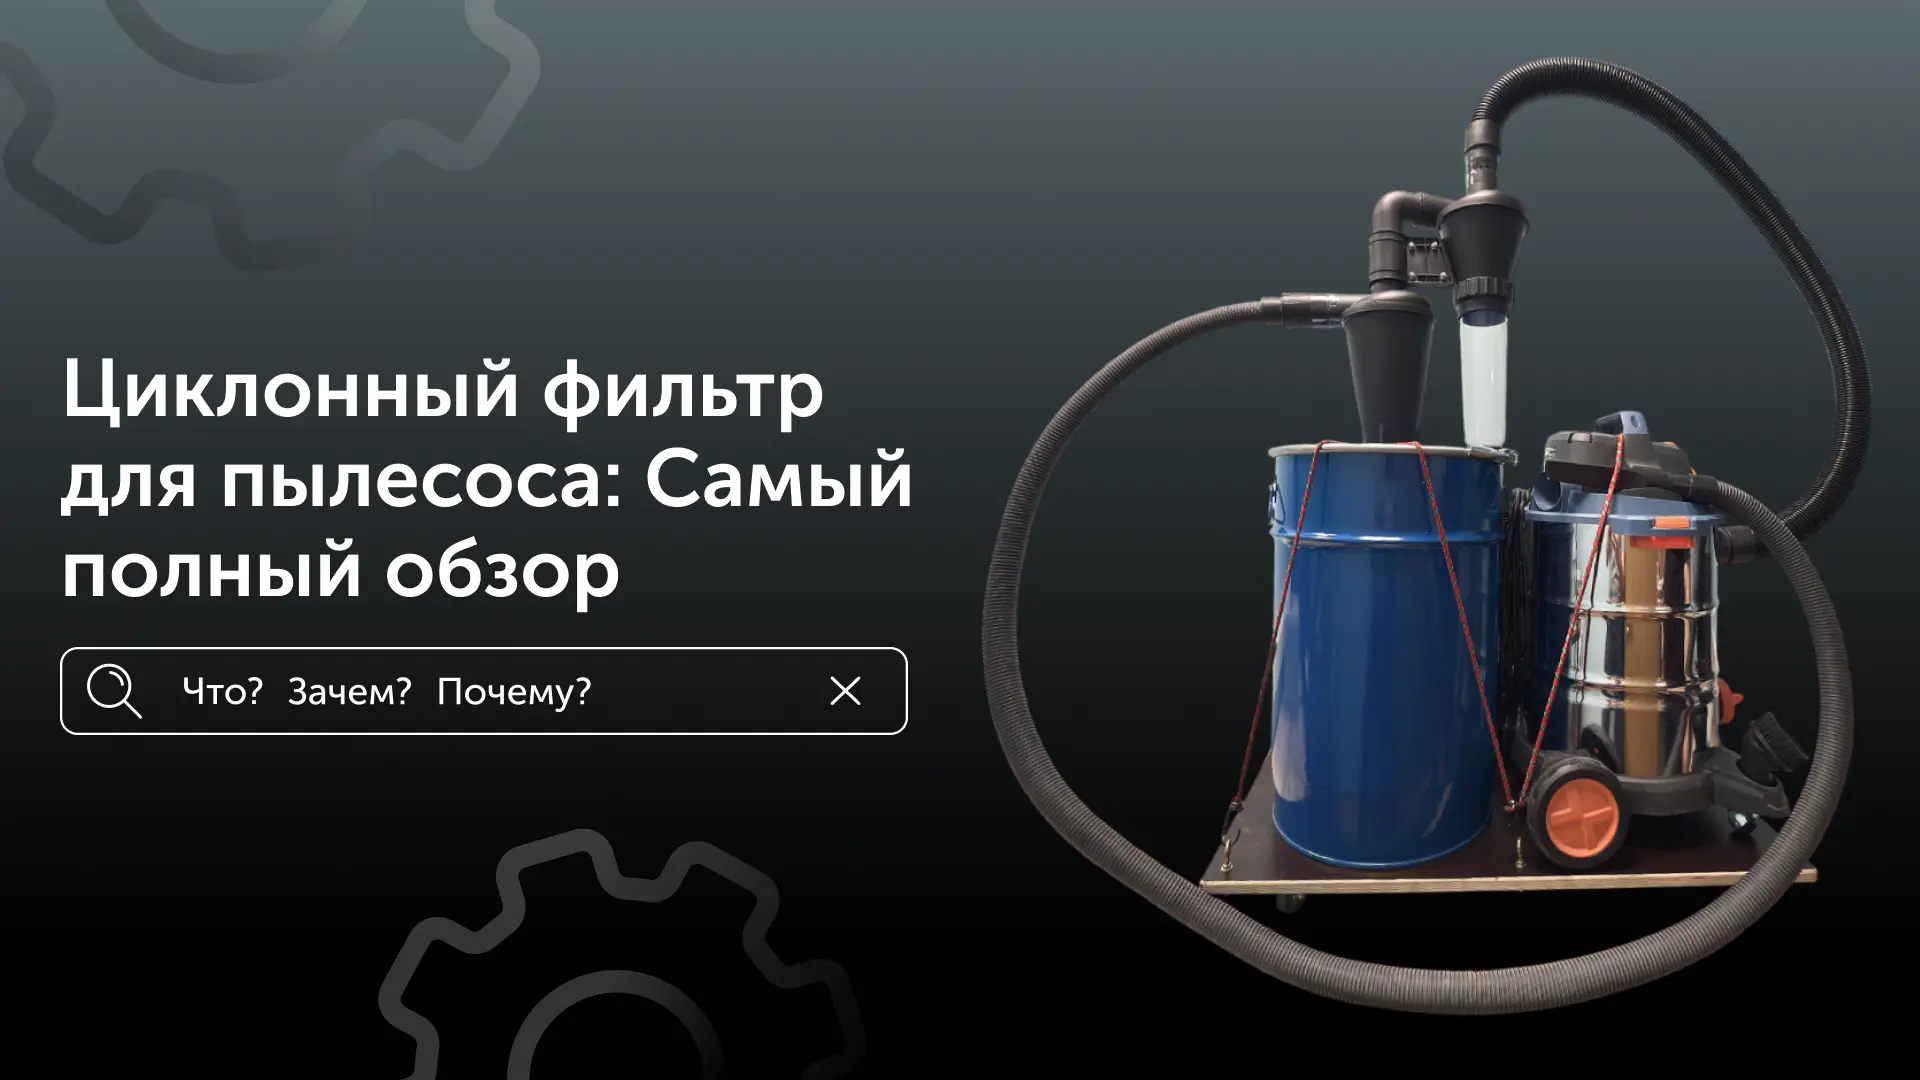
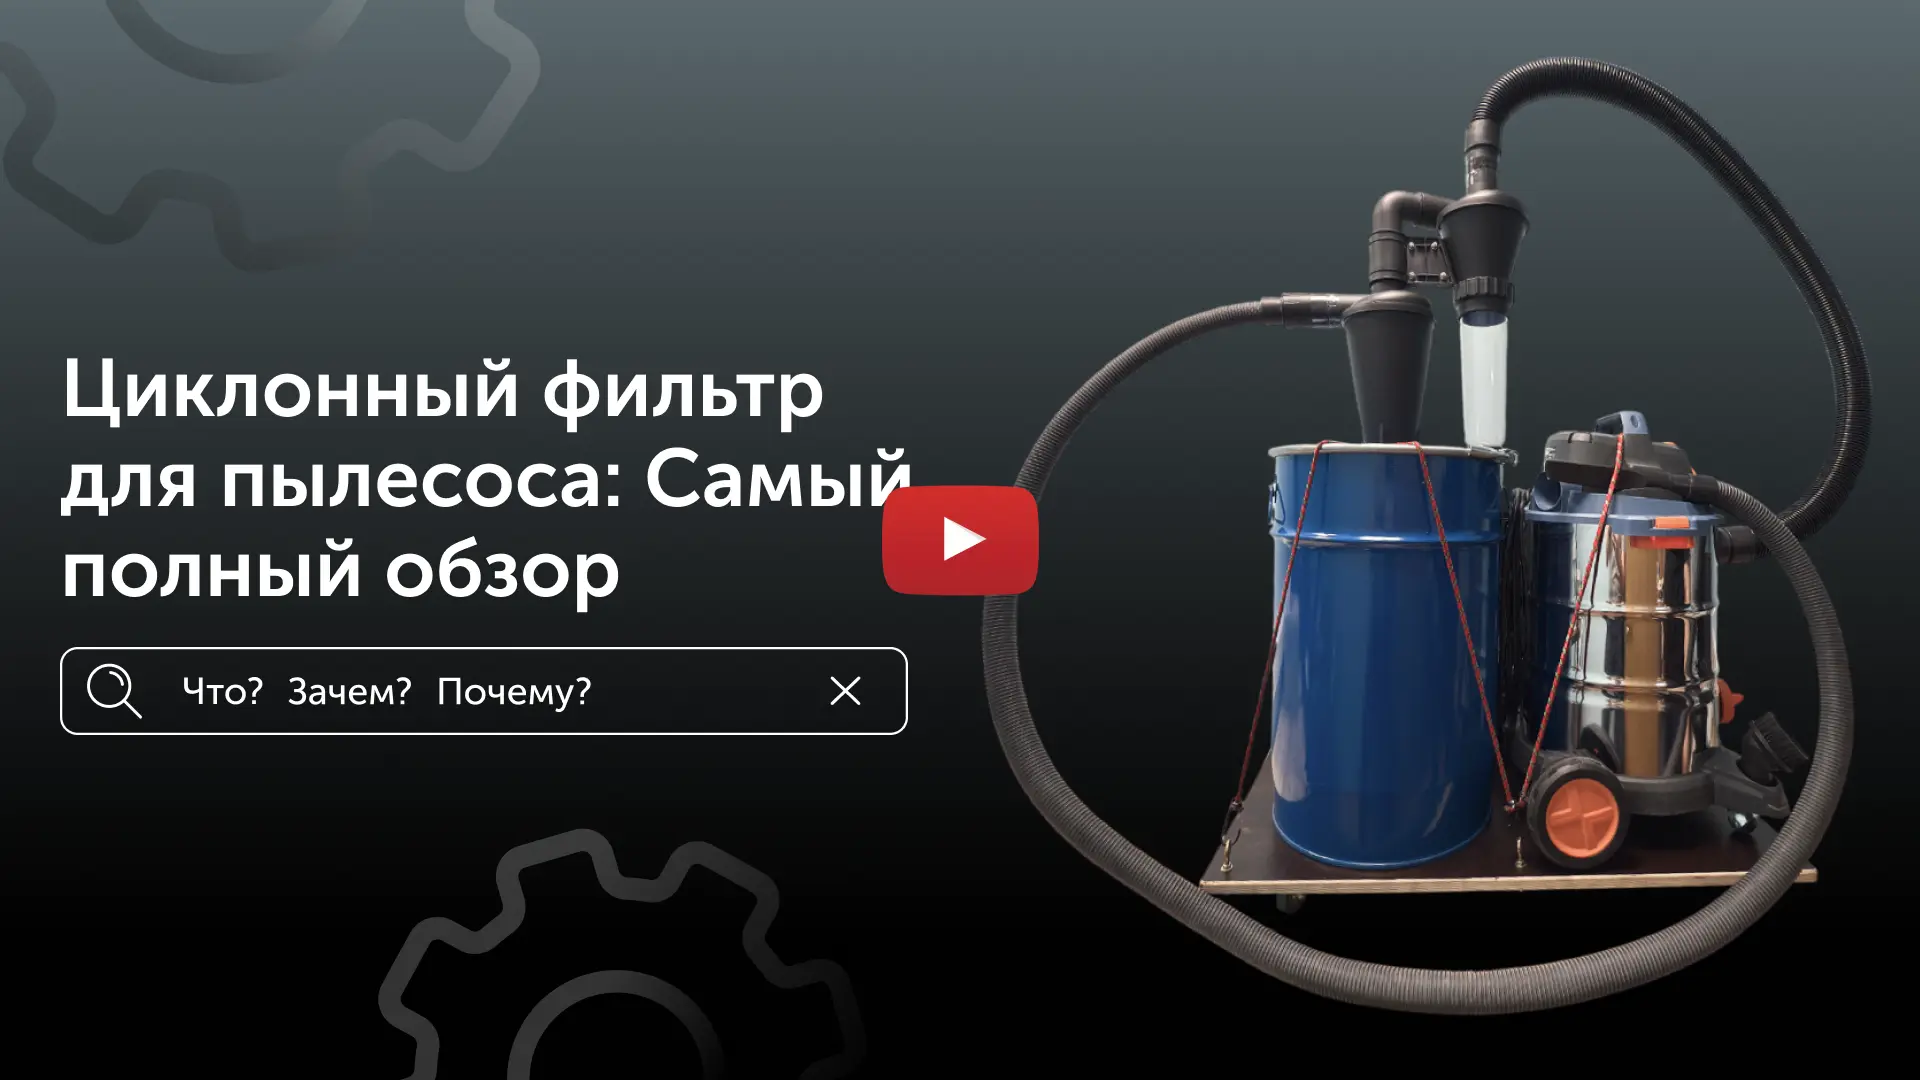
fix for vid

Changed region(s): [[0.4375, 0.4278, 0.5625, 0.55]]

diff --git a/src/components/VideoSection.vue b/src/components/VideoSection.vue
@@ -7,20 +7,17 @@ const showVideo = ref(false)
 <template>
   <section class="video-section" id="overviews">
     <div class="video-elem">
-      <img
-        v-if="!showVideo"
-        @click="showVideo = true"
-        class="video-preview"
-        src="/youtube-preview.webp"
-        alt="Превью ютуб видео"
-      />
+      <div class="preview-wrapper" v-if="!showVideo" @click.prevent.stop="showVideo = true">
+        <img class="video-preview" src="/youtube-preview.webp" alt="Превью ютуб видео" />
+      </div>
       <iframe
         v-else
         class="video-frame"
-        src="https://www.youtube.com/embed/ClvIqt0Vq5Y"
-        allow="accelerometer; encrypted-media; gyroscope; picture-in-picture"
+        :src="'https://www.youtube.com/embed/ClvIqt0Vq5Y?autoplay=1&rel=0'"
+        allow="accelerometer; encrypted-media; autoplay; gyroscope; picture-in-picture"
         frameborder="0"
         allowfullscreen
+        tabindex="-1"
       ></iframe>
     </div>
   </section>
@@ -37,6 +34,7 @@ const showVideo = ref(false)
 }
 
 .video-elem {
+  position: relative;
   width: 100%;
   max-width: 100rem;
   margin-bottom: 3rem;
@@ -44,11 +42,20 @@ const showVideo = ref(false)
   border-radius: 1.9rem;
   overflow: hidden;
 }
-.video-preview {
+.preview-wrapper {
   cursor: pointer;
+}
+.video-preview {
   width: 100%;
   height: 100%;
   object-fit: contain;
+}
+.play-btn {
+  position: absolute;
+  top: 50%;
+  left: 50%;
+  transform: translate(-50%, -50%);
+  width: 7rem;
 }
 .video-frame {
   width: 100%;

diff --git a/src/components/ContactsSection.vue b/src/components/ContactsSection.vue
@@ -55,6 +55,7 @@ function closeModal() {
           width="100%"
           height="100%"
           frameborder="0"
+          tabindex="-1"
         ></iframe>
       </div>
     </div>
